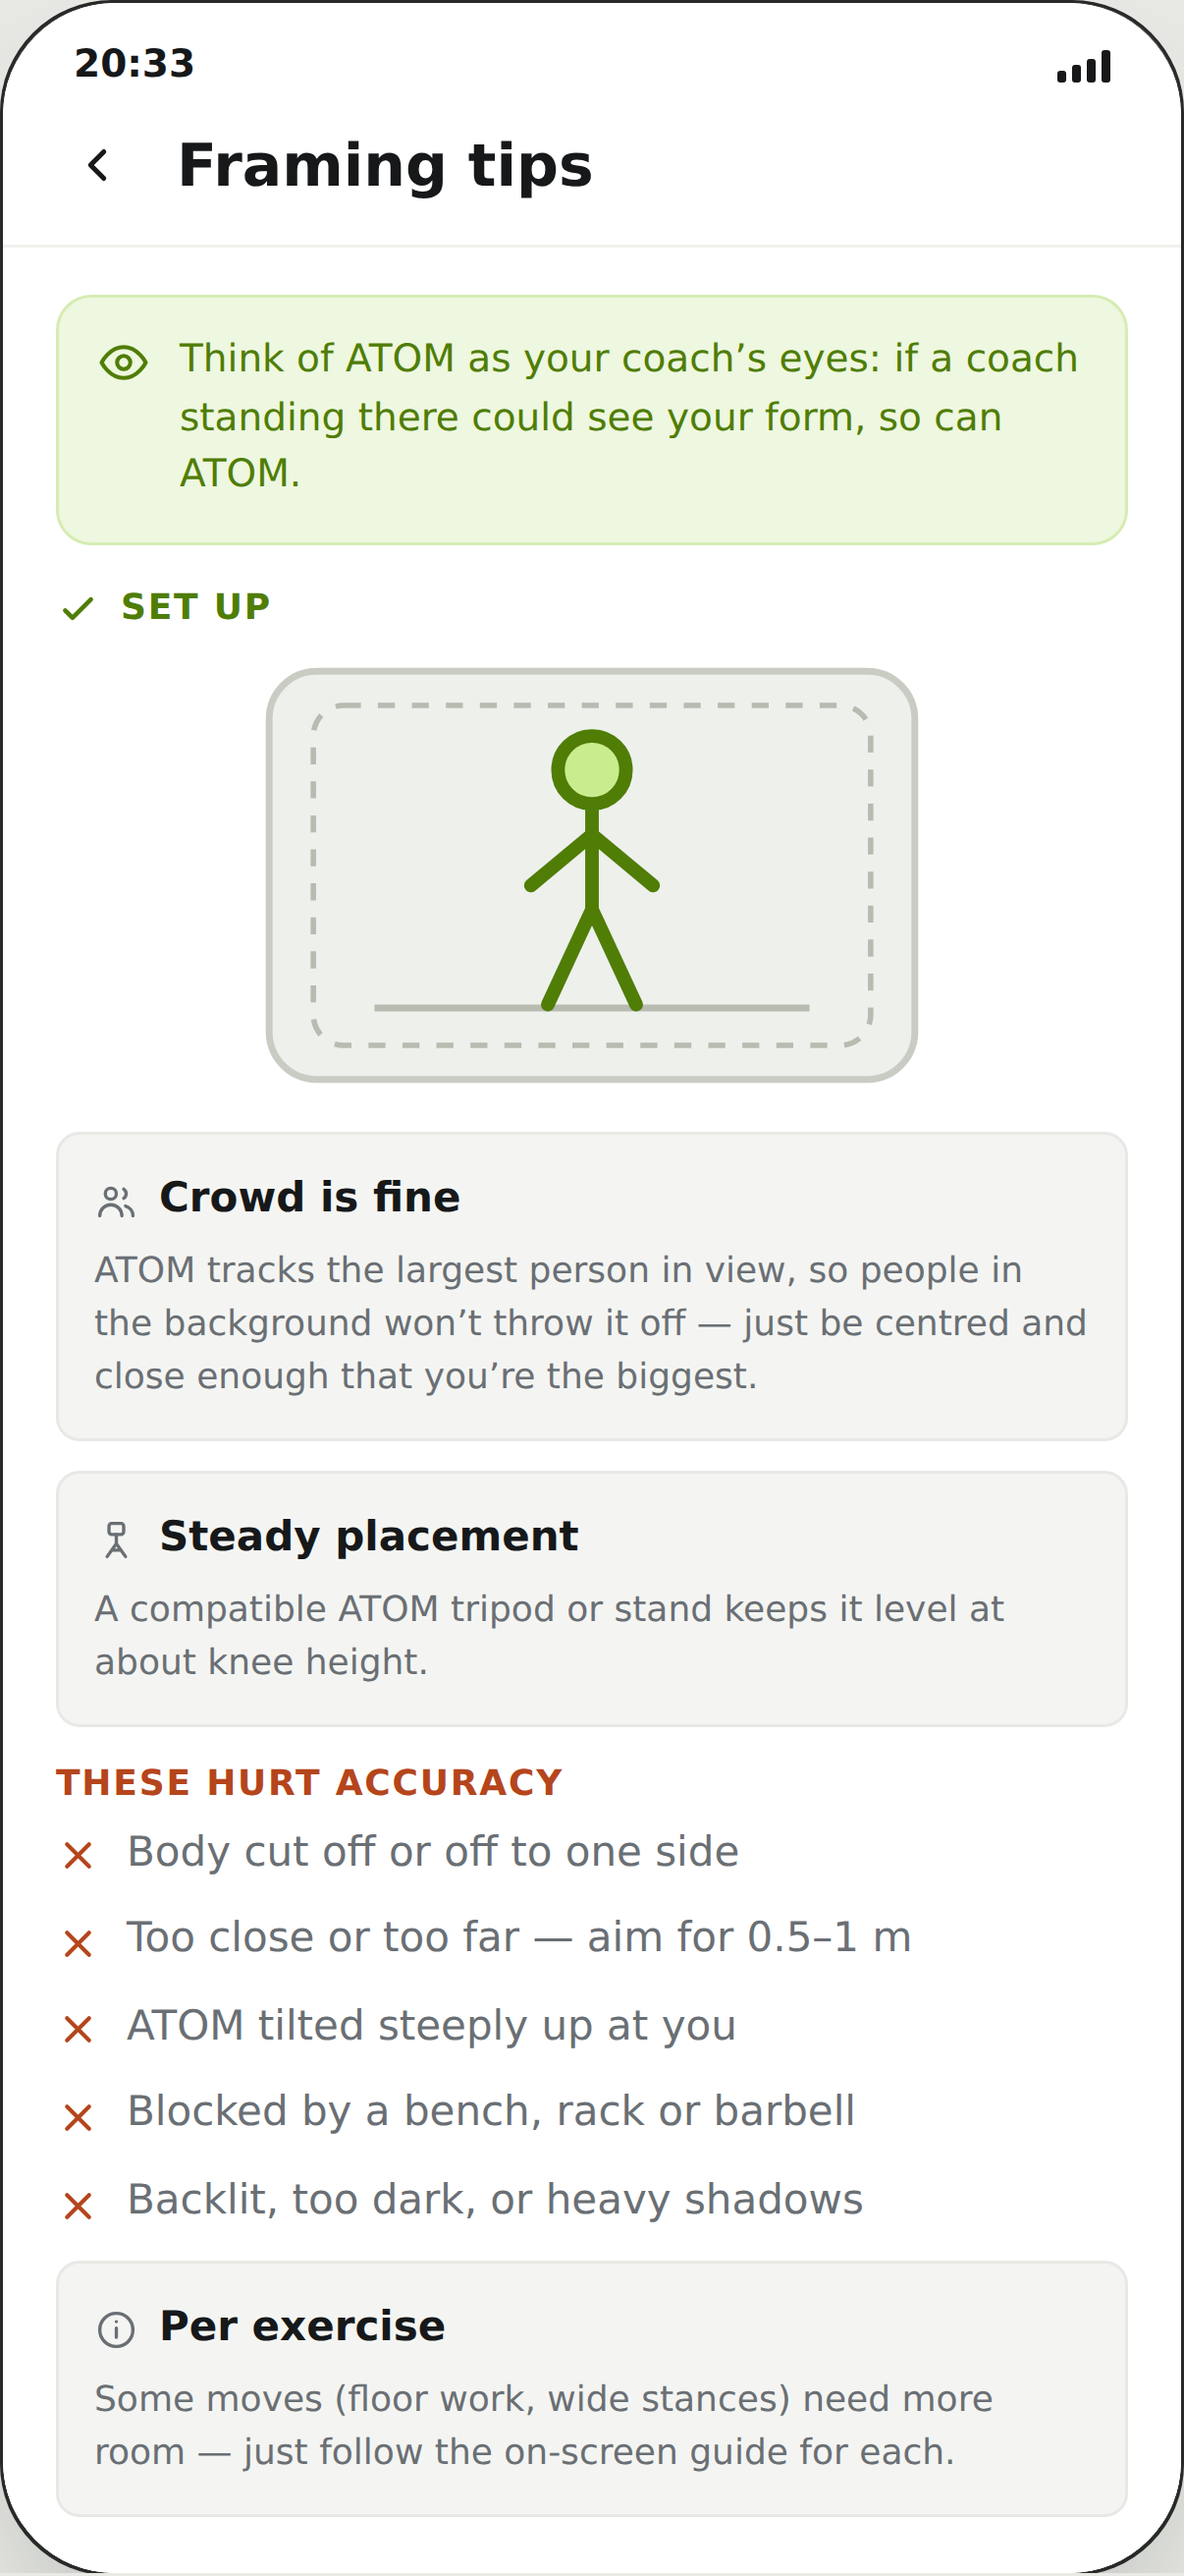
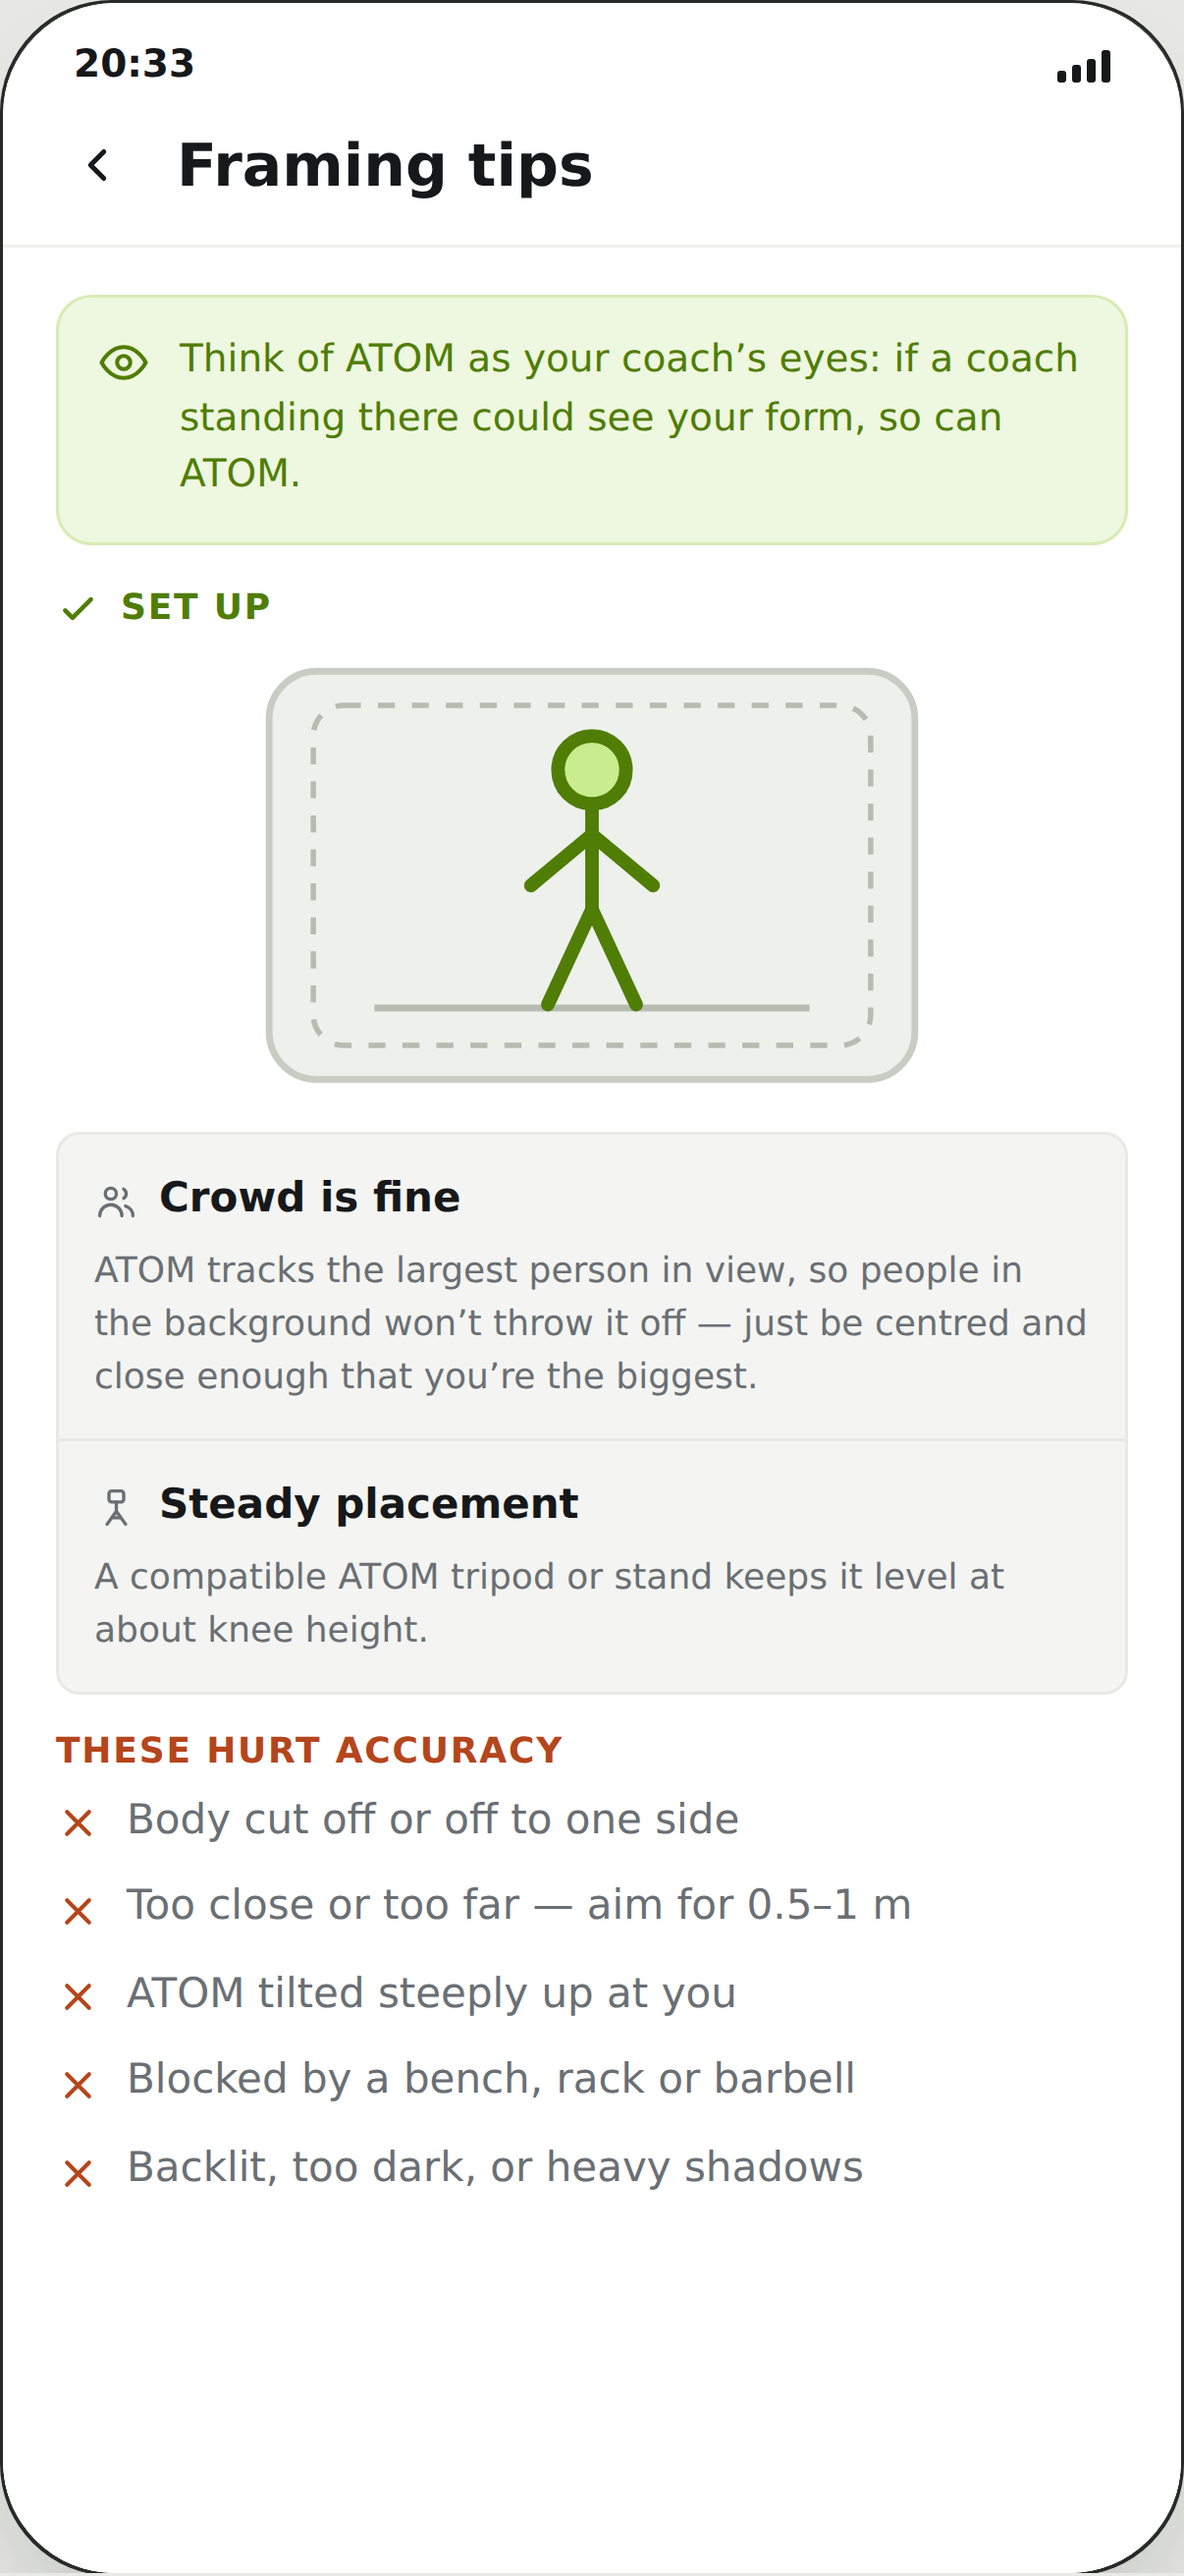
notice: pin save-line + don't-show to the bottom button; slim the tips page
- Notice page: 'Saved to…' + 'Don't show this again' now anchor to the bottom
  (above the CTA) instead of floating after the content (#ps-body flex + .ps-foot).
- Framing tips: merge 'Crowd is fine' + 'Steady placement' into one stacked box;
  drop the 'Per exercise' tip (fewer little boxes).
- Mirror both into Flutter (course_notice.dart _Footer order, _InfoStack/_InfoRow,
  tips page); remove now-unused perEx strings from strings.dart + prototype T.
- Regenerate UI-spec + flow-board + iphone17-mockups.

diff --git a/prototype-课前模式选择.html b/prototype-课前模式选择.html
@@ -147,6 +147,8 @@
   .pagebar .back svg{width:18px;height:18px;}
   .pagebar .ptitle{font-size:20px;font-weight:800;color:var(--ink);}
   .pagebody{flex:1;overflow-y:auto;padding:16px 18px 10px;}
+  #ps-body{display:flex;flex-direction:column;}
+  .ps-foot{margin-top:auto;}  /* save-line + don't-show stay with the bottom button, not the content */
   .pagesub{font-size:14px;color:var(--ink-2);line-height:1.5;margin:0 0 14px;}
   .pagecta{padding:12px 18px 18px;border-top:1px solid var(--hair);flex:none;}
   .pagecta button{width:100%;background:var(--cta);color:#fff;border:0;border-radius:999px;padding:16px;font:inherit;font-size:16px;font-weight:700;cursor:pointer;}
@@ -155,6 +157,9 @@
   .infobox{display:flex;flex-direction:column;gap:4px;font-size:12px;line-height:1.5;color:var(--ink-2);background:#f4f5f2;border:1px solid var(--line);border-radius:8px;padding:12px;margin-top:10px;}
   .infobox .ih{display:flex;align-items:center;gap:7px;font-size:14px;font-weight:800;color:var(--ink);}
   .infobox .ih svg{width:15px;height:15px;color:var(--ink-2);}
+  .infobox.stack{gap:0;padding:0;}
+  .infobox.stack .ir{display:flex;flex-direction:column;gap:4px;padding:12px;}
+  .infobox.stack .ir+.ir{border-top:1px solid var(--line);}
   .dataopts{display:flex;gap:8px;margin-bottom:9px;}
   .dataopt{flex:1;display:flex;align-items:center;gap:7px;padding:11px 11px;border:1.5px solid var(--line);border-radius:12px;background:#fff;cursor:pointer;font-size:12px;font-weight:600;color:var(--ink-2);}
   .dataopt svg{width:16px;height:16px;flex:none;}
@@ -614,7 +619,6 @@
       tipsLink:'See framing tips', tipsTitle:'Framing tips',
       tripodH:'Steady placement', tripod:'A compatible ATOM tripod or stand keeps it level at about knee height.',
       crowdH:'Crowd is fine', crowd:'ATOM tracks the largest person in view, so people in the background won’t throw it off — just be centred and close enough that you’re the biggest.',
-      perExH:'Per exercise', perEx:'Some moves (floor work, wide stances) need more room — just follow the on-screen guide for each.',
       recapSub:'Stay in frame at any angle — just keep the light good.',
       recapDoH:'Keep in mind',
       recapDo:['Stay fully in frame the whole workout','Angle is flexible — front or side is fine','Enough light; just you in frame'],
@@ -668,7 +672,6 @@
       tipsLink:'查看拍摄技巧', tipsTitle:'拍摄技巧',
       tripodH:'稳定摆放', tripod:'用配套的 ATOM 三脚架/支架，把它平稳架在约膝盖高度。',
       crowdH:'背景有人没关系', crowd:'ATOM 只认画面里最大的那个人，背景有人也不影响——你居中、离得够近，是画面里最大的主体就行。',
-      perExH:'不同动作', perEx:'部分动作（地面动作、大跨步）需要更大画面，按每个动作的屏幕提示调整即可。',
       recapSub:'全程在画面里，角度随意，光线充足就好。',
       recapDoH:'记住这几点',
       recapDo:['运动全程待在画面里','角度不苛刻，正面或侧面都行','光线别太暗，画面里只有你'],
@@ -759,6 +762,7 @@
   function _avoid(items){ return '<div class="avoidlist">'+items.map(function(x){return '<div class="av">'+AVX+'<span>'+x+'</span></div>';}).join('')+'</div>'; }
   function _reach(t){ return '<div class="reach">'+PINI+'<span>'+t.reach+'</span></div>'; }
   function _info(icon,h,txt){ return '<div class="infobox"><div class="ih">'+icon+'<span>'+h+'</span></div><span>'+txt+'</span></div>'; }
+  function _info2(rows){ return '<div class="infobox stack">'+rows.map(function(r){return '<div class="ir"><div class="ih">'+r[0]+'<span>'+r[1]+'</span></div><span>'+r[2]+'</span></div>';}).join('')+'</div>'; }
   function _datarow(t){
     if(!saving()){
       return '<div class="dataline off" id="ps-datarow"><span>'+t.drSaveOff+'</span><span class="drchange allow">'+t.drTurnOn+'</span></div>';
@@ -788,7 +792,7 @@
       if(!saving()) h+=_info(REPORTI,t.reportH,t.recapNoSave);
       else h+=_info(REPORTI,t.reportH,t.report)+_info(ALGOI,t.algoH,t.algo);
     }
-    h+=_datarow(t)+_dontrow(t);
+    h+='<div class="ps-foot">'+_datarow(t)+_dontrow(t)+'</div>';
     psBody.innerHTML=h; prestart.classList.add('show'); if(!keep) psBody.scrollTop=0;
     document.getElementById('ps-datarow').onclick=openDataSheet;
     document.getElementById('ps-dont').onclick=function(){ psSkip=!psSkip; var st=psBody.scrollTop; openPrestart(true); psBody.scrollTop=st; };
@@ -801,10 +805,8 @@
     tipsT.textContent=t.tipsTitle;
     tipsBody.innerHTML='<div class="coachcallout">'+EYEI+'<span>'+t.coachLine+'</span></div>'
       +'<div class="okcap">'+CHK+'<span>'+t.coachDoH+'</span></div>'+FRAME_LIGHT
-      +_info(PEOPLEI,t.crowdH,t.crowd)
-      +_info(TRIPODI,t.tripodH,t.tripod)
-      +_sec(t.coachAvoidH,true)+_avoid(t.coachAvoid)
-      +_info(INFOI,t.perExH,t.perEx);
+      +_info2([[PEOPLEI,t.crowdH,t.crowd],[TRIPODI,t.tripodH,t.tripod]])
+      +_sec(t.coachAvoidH,true)+_avoid(t.coachAvoid);
     tips.classList.add('show'); tipsBody.scrollTop=0;
   }
   document.getElementById('tips-back').onclick=function(){ tips.classList.remove('show'); };

diff --git a/flutter/lib/workout_mode/course_notice.dart b/flutter/lib/workout_mode/course_notice.dart
@@ -130,17 +130,16 @@ class FramingTipsPage extends StatelessWidget {
             const SizedBox(height: 8),
             const FramingIllustration(),
             const SizedBox(height: 14),
-            _InfoBox(icon: Icons.groups_outlined, header: l.crowdHeader, body: l.crowd),
-            const SizedBox(height: 10),
-            _InfoBox(icon: Icons.camera_outdoor_outlined, header: l.tripodHeader, body: l.tripod),
+            _InfoStack(rows: [
+              _InfoRow(icon: Icons.groups_outlined, header: l.crowdHeader, body: l.crowd),
+              _InfoRow(icon: Icons.camera_outdoor_outlined, header: l.tripodHeader, body: l.tripod),
+            ]),
             const SizedBox(height: 16),
             Text(l.avoidHeader.toUpperCase(),
                 style: const TextStyle(
                     fontSize: 12, fontWeight: FontWeight.w800, color: Wm.warn, letterSpacing: 0.5)),
             const SizedBox(height: 8),
             CheckList(items: l.coachAvoid, tone: CheckTone.bad),
-            const SizedBox(height: 16),
-            _InfoBox(icon: Icons.info_outline, header: l.perExHeader, body: l.perEx),
           ],
         ),
       ),
@@ -224,15 +223,14 @@ class CheckList extends StatelessWidget {
   }
 }
 
-class _InfoBox extends StatelessWidget {
-  const _InfoBox({required this.icon, required this.header, required this.body});
+class _InfoRow extends StatelessWidget {
+  const _InfoRow({required this.icon, required this.header, required this.body});
   final IconData icon;
   final String header;
   final String body;
   @override
-  Widget build(BuildContext context) => Container(
+  Widget build(BuildContext context) => Padding(
         padding: const EdgeInsets.symmetric(horizontal: 13, vertical: 12),
-        decoration: BoxDecoration(color: Wm.iconBg, borderRadius: BorderRadius.circular(12)),
         child: Row(crossAxisAlignment: CrossAxisAlignment.start, children: [
           Icon(icon, size: 18, color: Wm.ink2),
           const SizedBox(width: 10),
@@ -246,6 +244,37 @@ class _InfoBox extends StatelessWidget {
           ),
         ]),
       );
+}
+
+class _InfoBox extends StatelessWidget {
+  const _InfoBox({required this.icon, required this.header, required this.body});
+  final IconData icon;
+  final String header;
+  final String body;
+  @override
+  Widget build(BuildContext context) => Container(
+        decoration: BoxDecoration(color: Wm.iconBg, borderRadius: BorderRadius.circular(12)),
+        child: _InfoRow(icon: icon, header: header, body: body),
+      );
+}
+
+/// One box holding several info rows, separated by hairlines — keeps the
+/// framing-tips page from turning into a stack of tiny boxes.
+class _InfoStack extends StatelessWidget {
+  const _InfoStack({required this.rows});
+  final List<_InfoRow> rows;
+  @override
+  Widget build(BuildContext context) {
+    final children = <Widget>[];
+    for (var i = 0; i < rows.length; i++) {
+      if (i > 0) children.add(const Divider(height: 1, thickness: 1, color: Wm.line));
+      children.add(rows[i]);
+    }
+    return Container(
+      decoration: BoxDecoration(color: Wm.iconBg, borderRadius: BorderRadius.circular(12)),
+      child: Column(crossAxisAlignment: CrossAxisAlignment.stretch, children: children),
+    );
+  }
 }
 
 /// Placeholder framing diagram.
@@ -288,10 +317,10 @@ class _Footer extends StatelessWidget {
       ),
       child: Column(mainAxisSize: MainAxisSize.min, crossAxisAlignment: CrossAxisAlignment.stretch, children: [
         _DataSaveLine(controller: controller),
+        const SizedBox(height: 10),
+        _DontShowRow(controller: controller),
         const SizedBox(height: 12),
         PillButton(label: l.ready, onTap: () => onStart(mode)),
-        const SizedBox(height: 6),
-        _DontShowRow(controller: controller),
       ]),
     );
   }

diff --git a/flutter/lib/workout_mode/strings.dart b/flutter/lib/workout_mode/strings.dart
@@ -124,10 +124,6 @@ class L {
           'Blocked by a bench, rack or barbell',
           'Backlit, too dark, or heavy shadows',
         ];
-  String get perExHeader => _t('Per exercise', '不同动作');
-  String get perEx => _t(
-      'Some moves (floor work, wide stances) need more room — just follow the on-screen guide for each.',
-      '部分动作（地面动作、大跨步）需要更大画面，按每个动作的屏幕提示调整即可。');
 
   // ---- data-save (bottom line) ----
   String get drCloud => _t('Saved to your cloud', '视频同步到云端');
